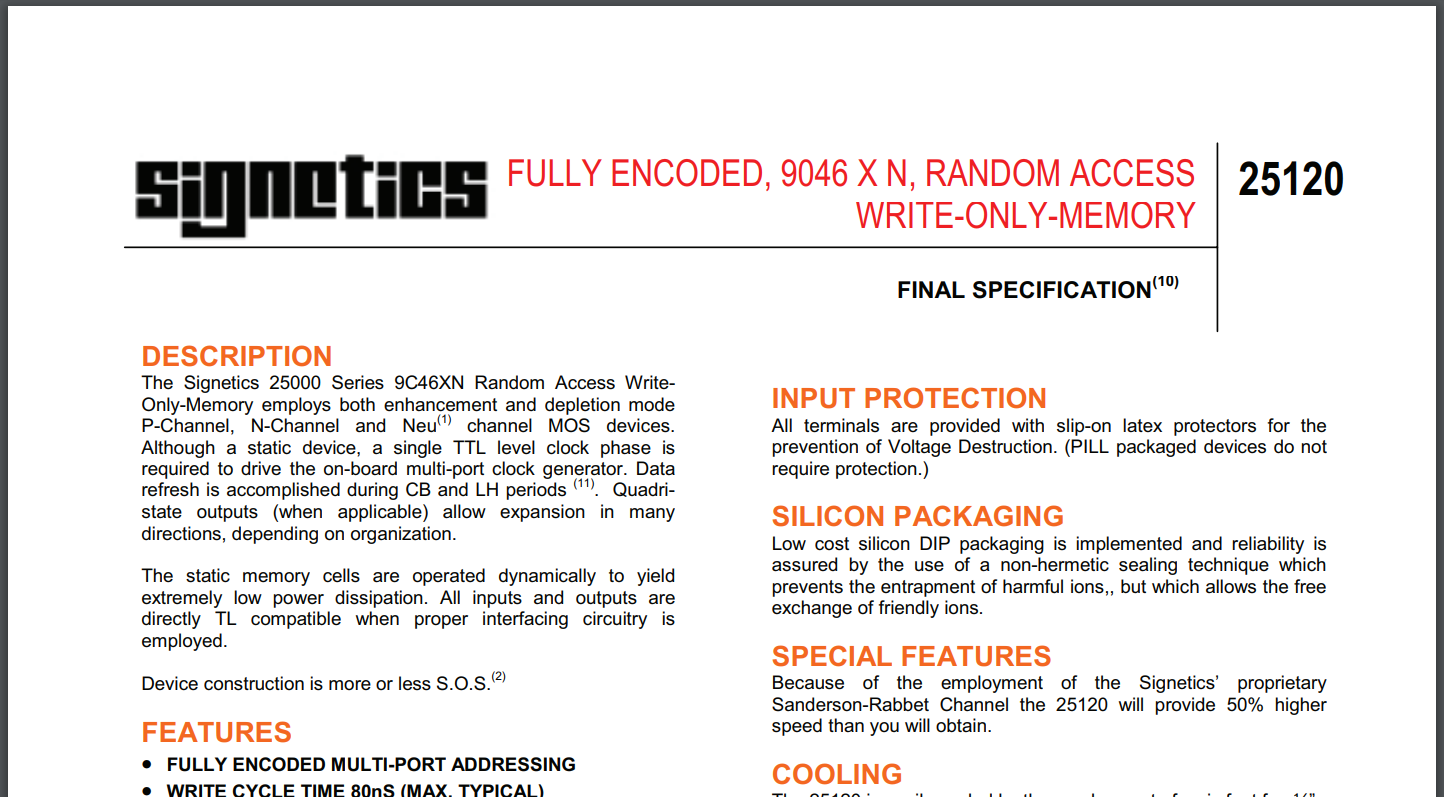
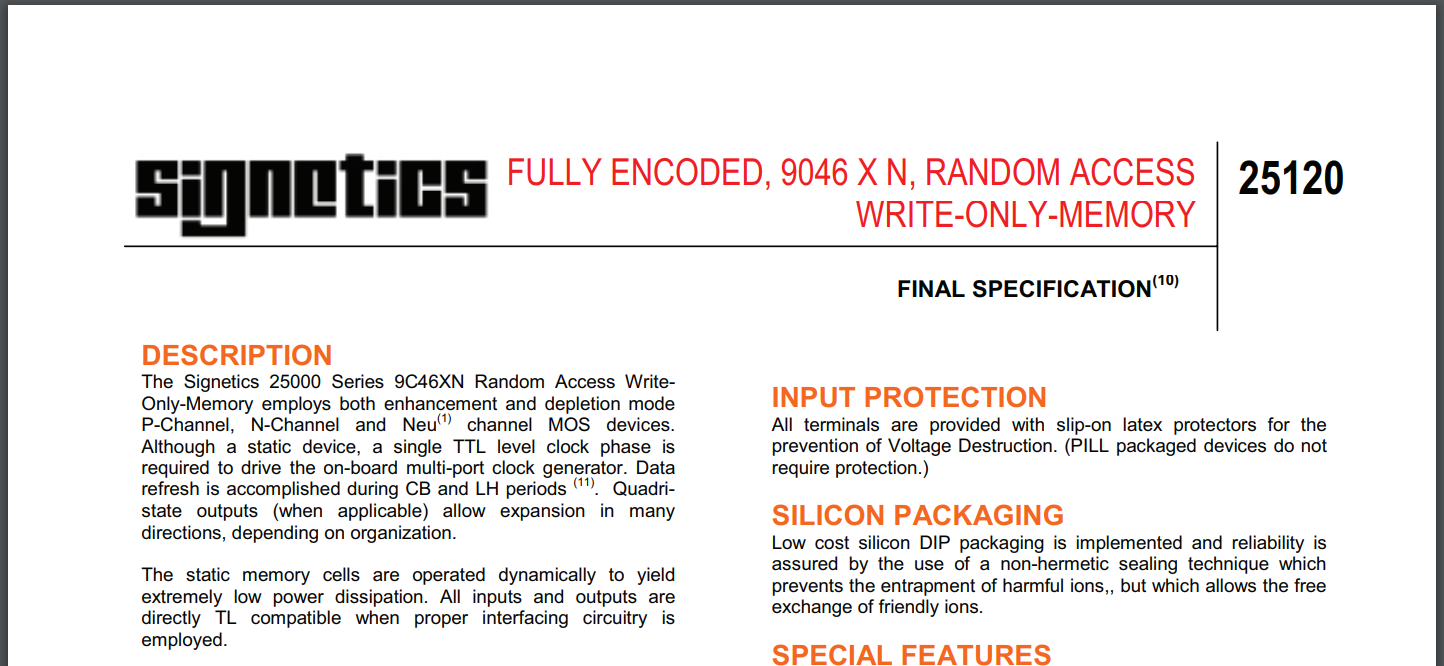
CHG: Make image smaller.

diff --git a/040coders-lightning-talk.md b/040coders-lightning-talk.md
@@ -252,8 +252,6 @@ HEY, now will you please clean up your toys?
 Sigh.
 
 #
-## Write-only memory
-
 ![](images/write-only-memory.png)
 
 #
